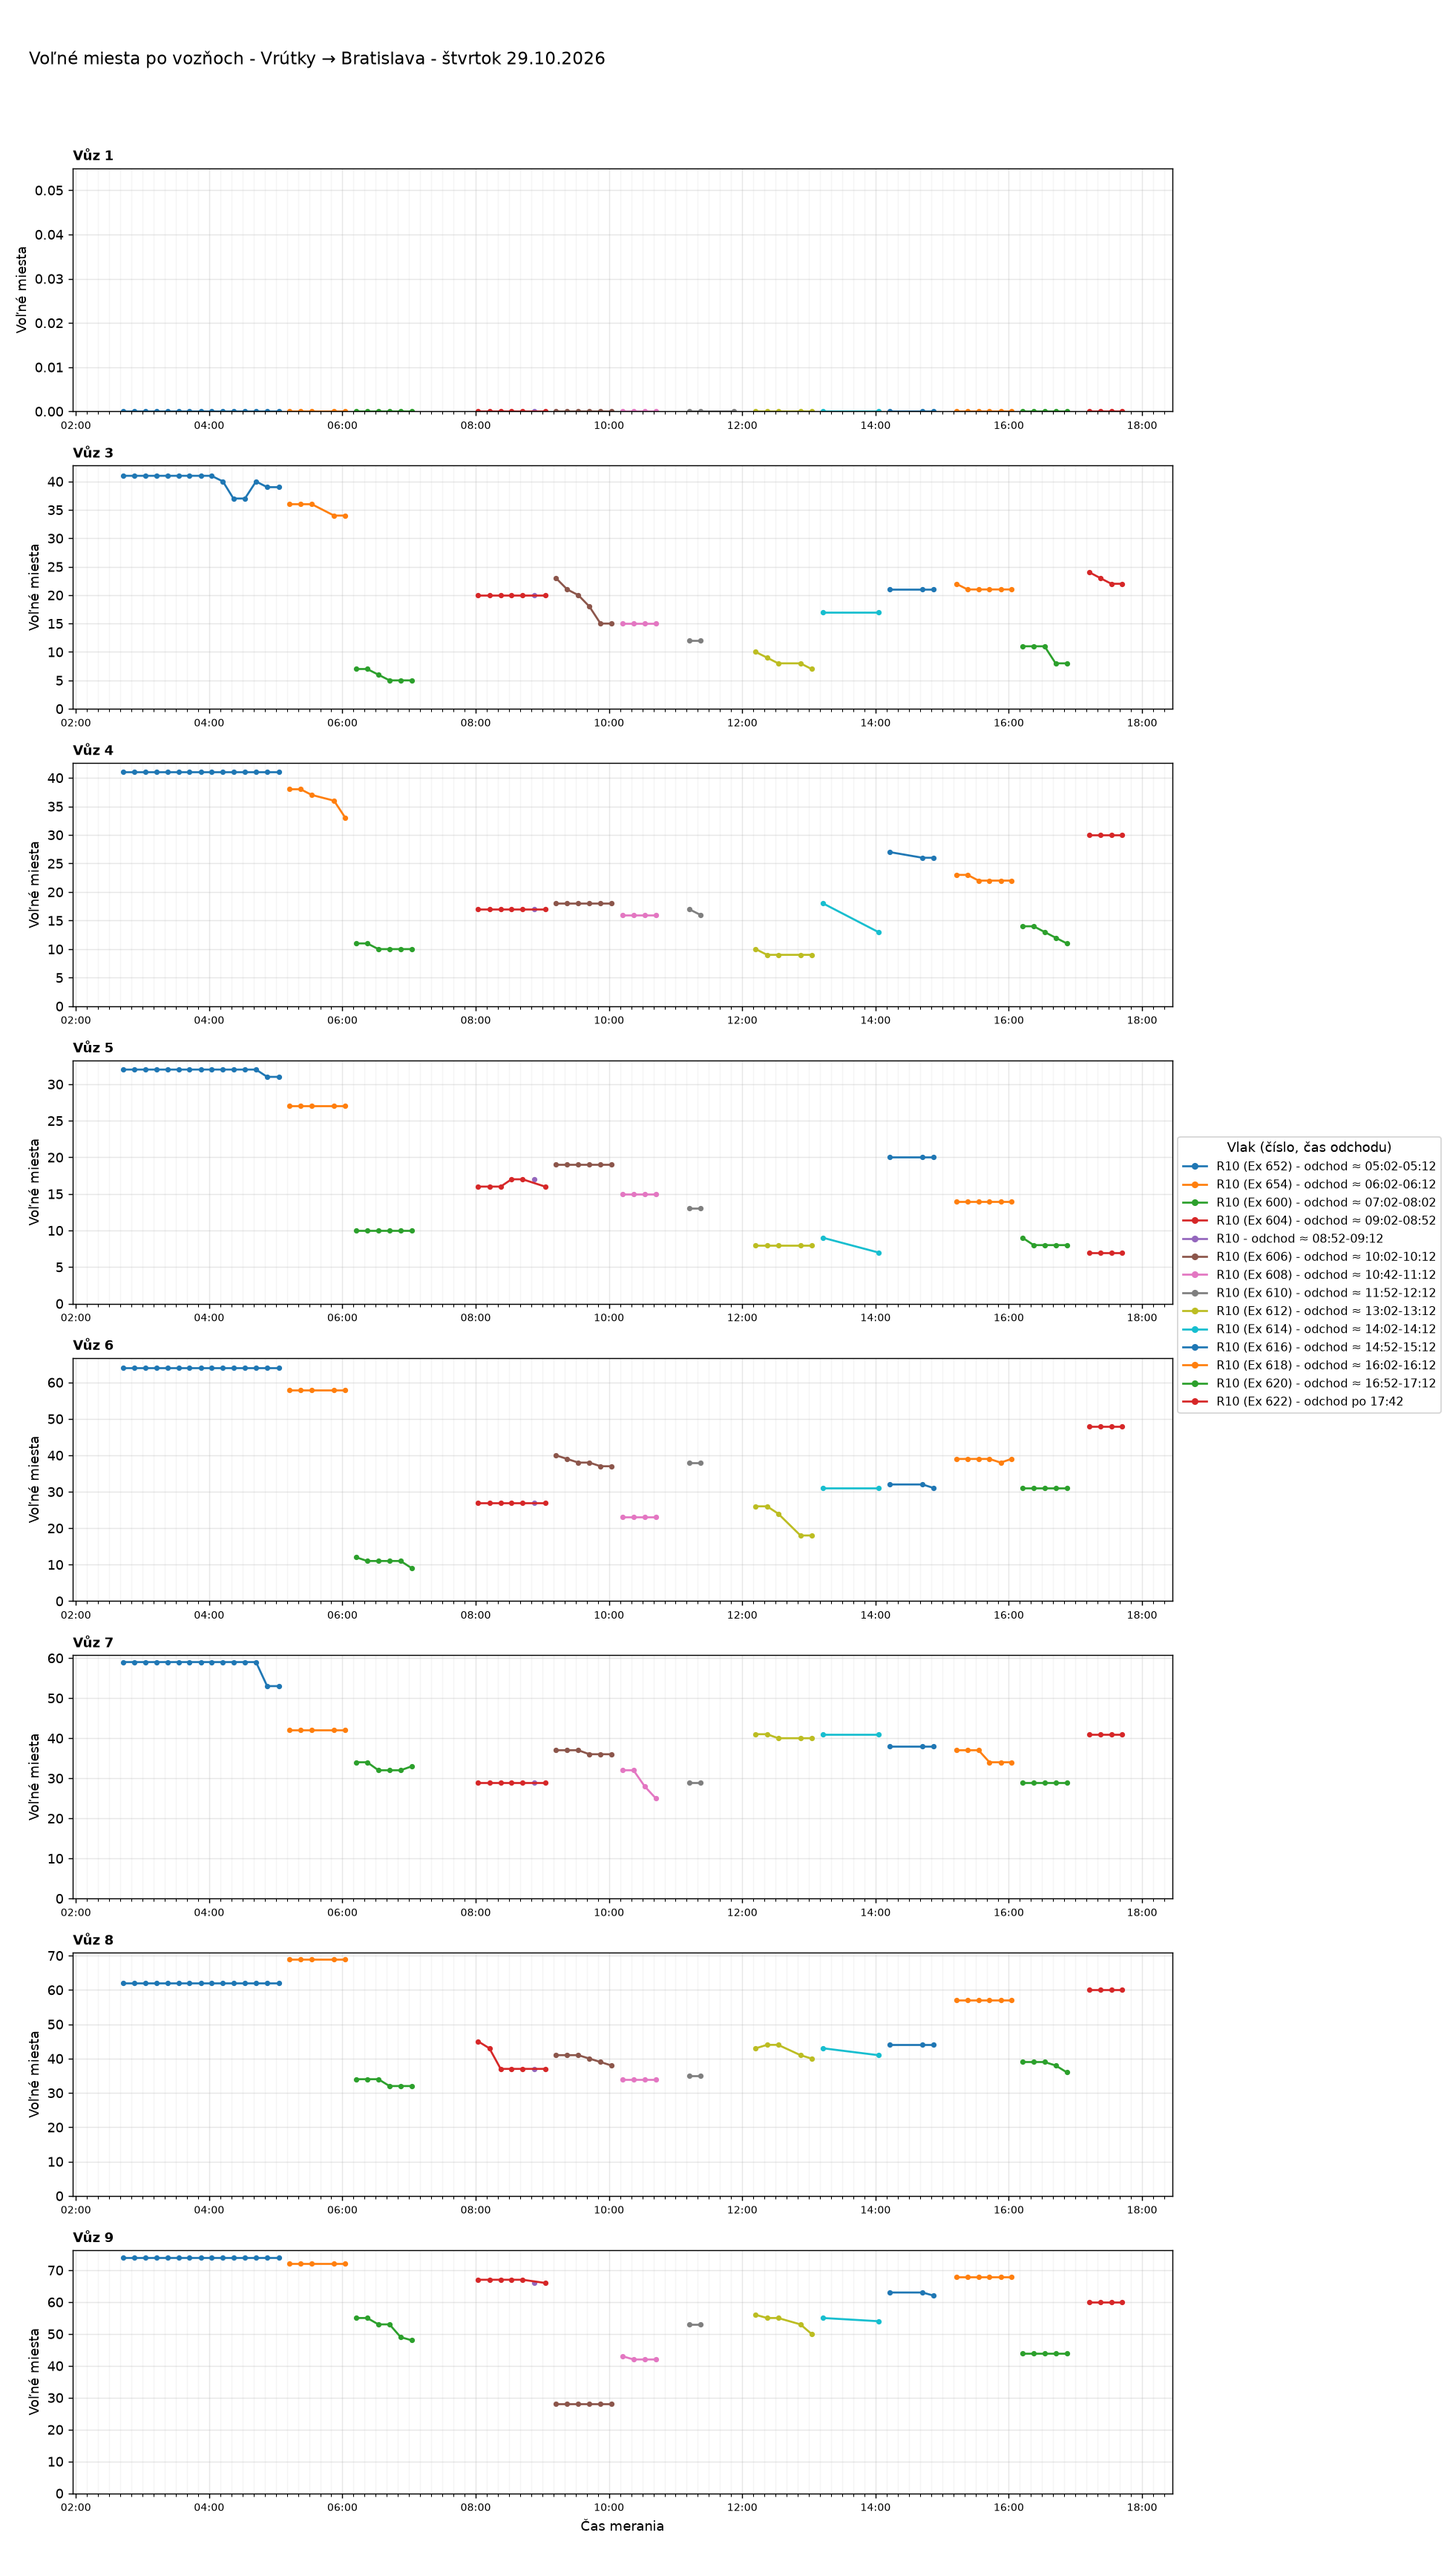
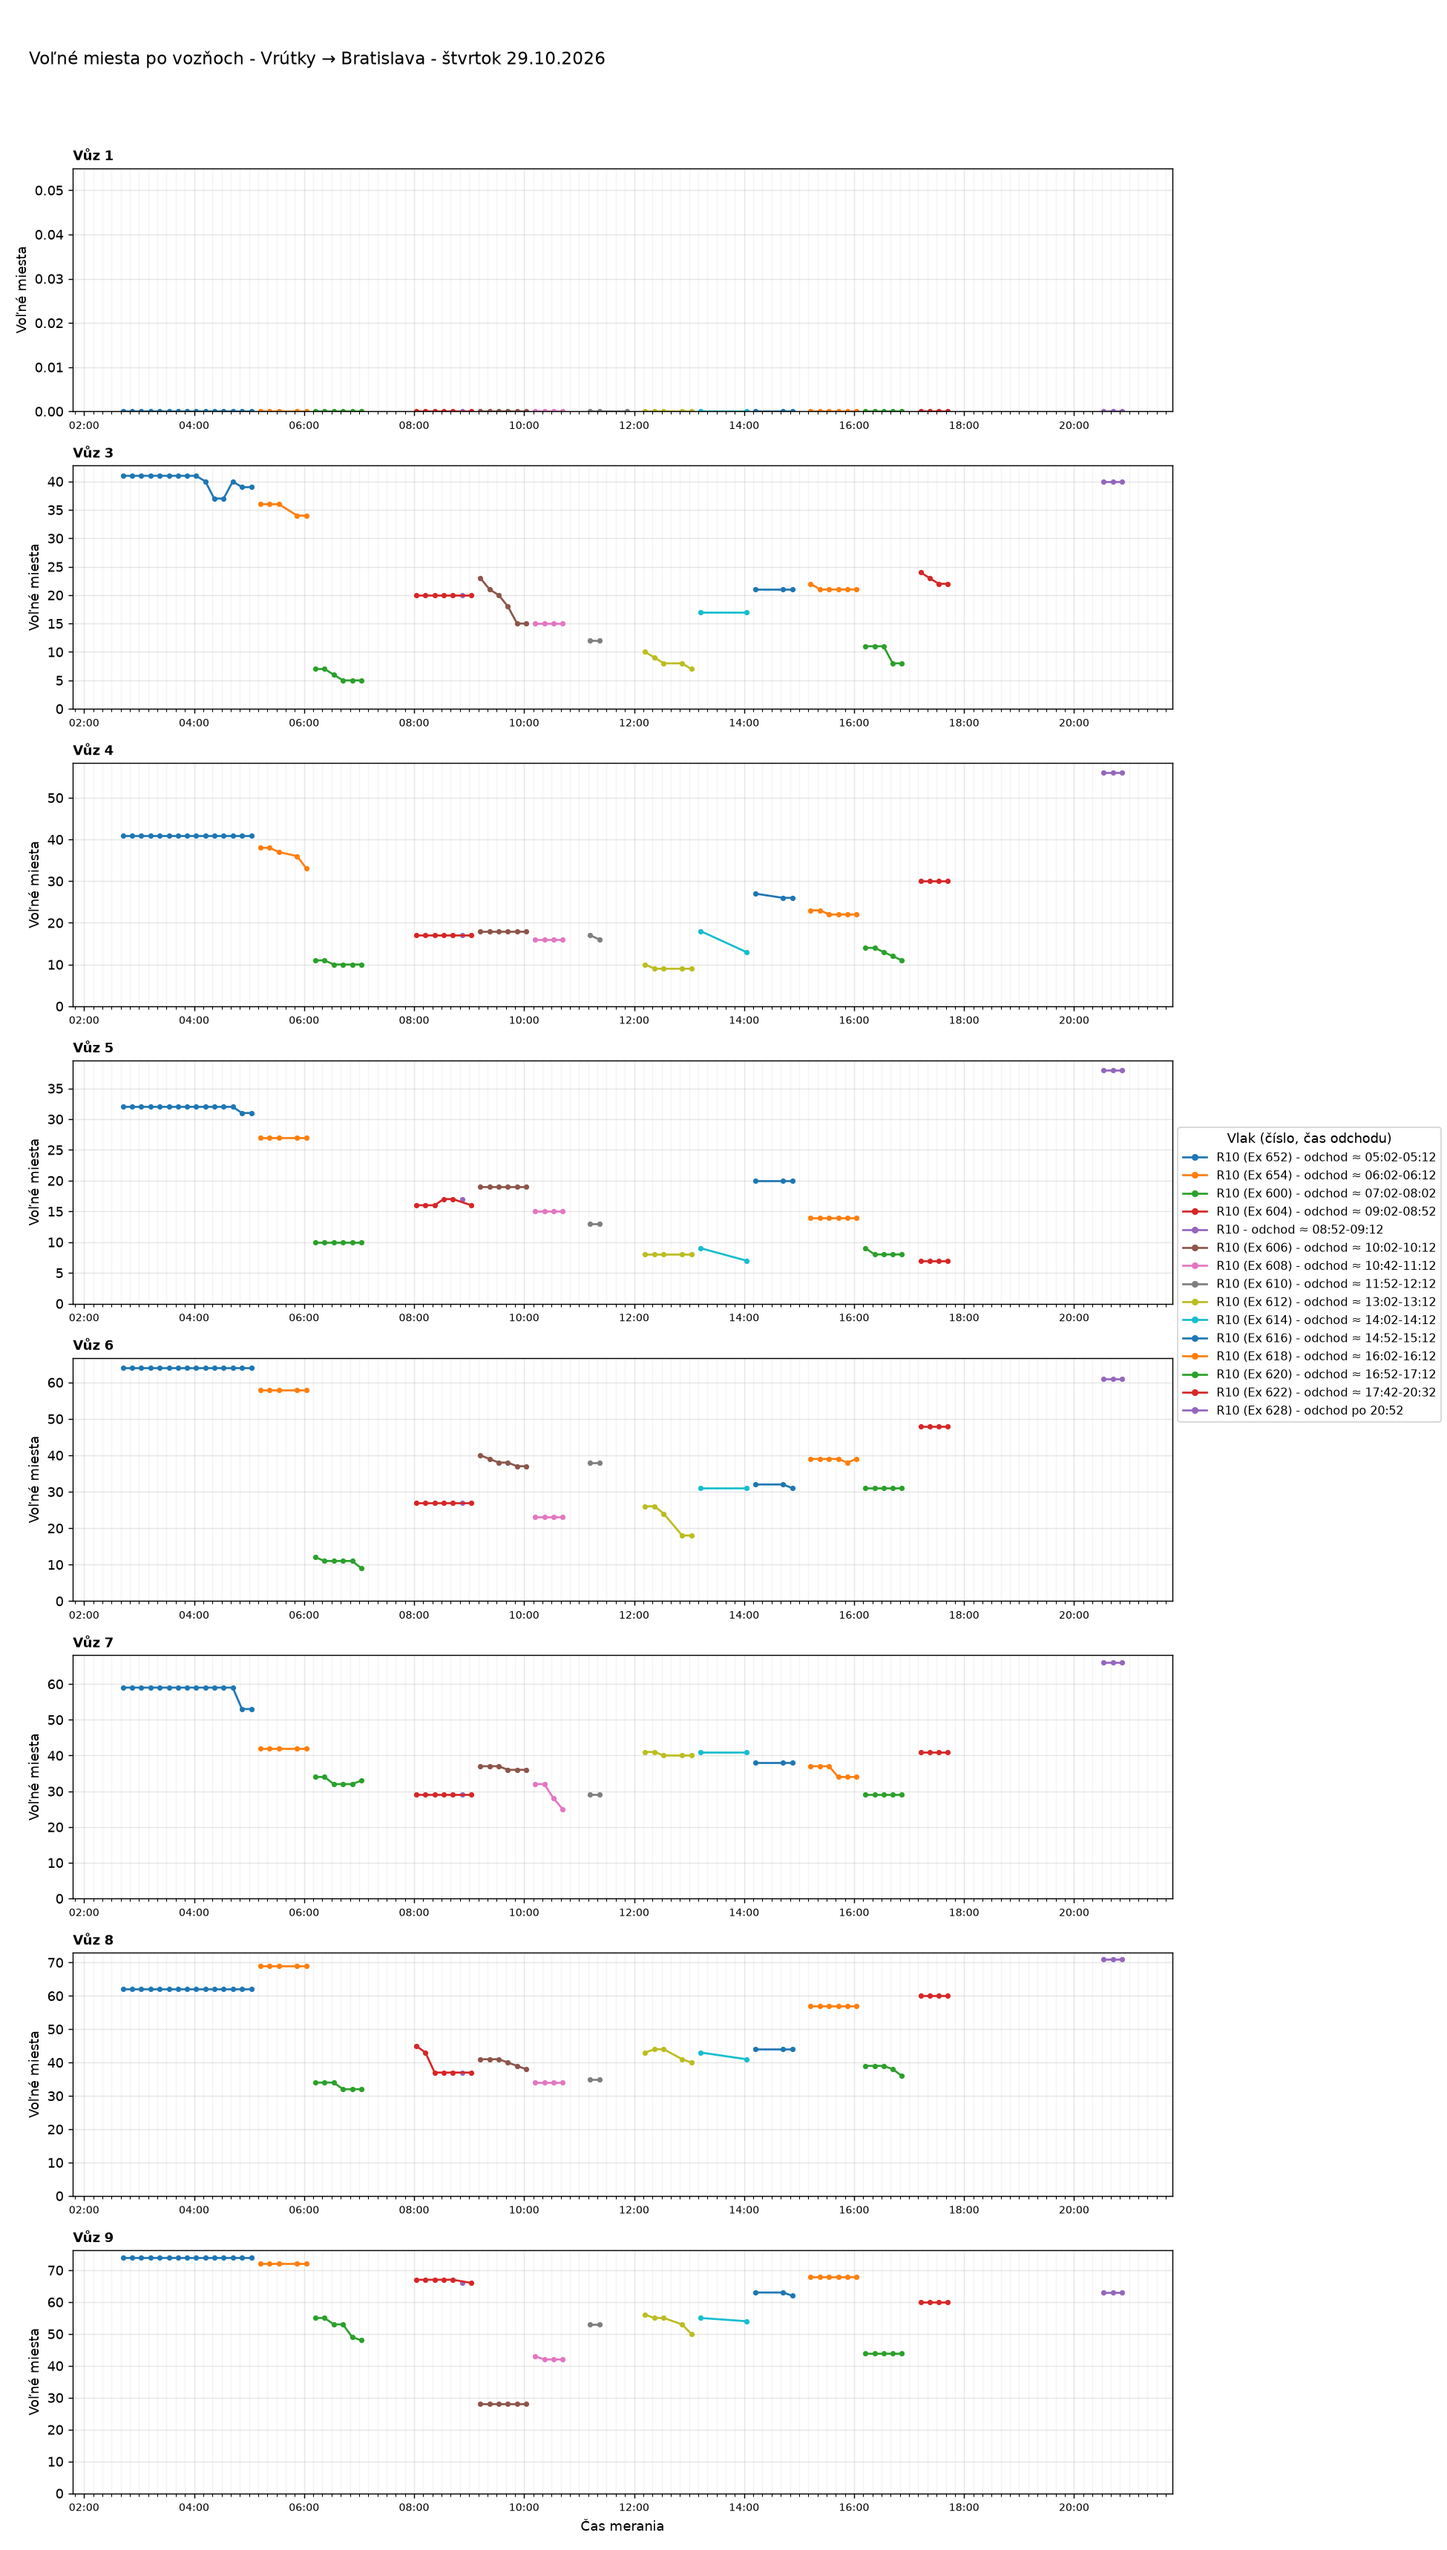
Aktualizácia grafov 2026-10-29 21:03

diff --git a/index.html b/index.html
@@ -37,7 +37,7 @@ details.trasa>summary{cursor:pointer;font-weight:600;font-size:1.1rem;padding:8p
 <body>
 <main>
 <h1>Voľné miesta vo vlakoch</h1>
-<p class="muted">Posledné meranie: 29.10.2026 19:41 ·
+<p class="muted">Posledné meranie: 29.10.2026 20:52 ·
 <a href="data/obsadenost_data.csv">stiahnuť dáta (CSV)</a></p>
 <nav class="nav"><a href="#suhrn">Súhrn</a><a href="#statistiky">Štatistiky</a><a href="#historia">História grafov</a></nav>
 
@@ -47,7 +47,7 @@ details.trasa>summary{cursor:pointer;font-weight:600;font-size:1.1rem;padding:8p
 <thead><tr><th>Deň</th><th>Trasa</th><th>Meraní</th><th>Vlakov</th><th>Čas meraní</th></tr></thead>
 <tbody>
 <tr><td><a href="#dBA-VR-2026-10-29">štvrtok 29.10.2026</a></td><td>Bratislava → Vrútky</td><td>83</td><td>14</td><td>00:01-19:41</td></tr>
-<tr><td><a href="#dVR-BA-2026-10-29">štvrtok 29.10.2026</a></td><td>Vrútky → Bratislava</td><td>71</td><td>14</td><td>02:42-17:42</td></tr>
+<tr><td><a href="#dVR-BA-2026-10-29">štvrtok 29.10.2026</a></td><td>Vrútky → Bratislava</td><td>74</td><td>15</td><td>02:42-20:52</td></tr>
 <tr><td><a href="#dBA-KE-2026-10-29">štvrtok 29.10.2026</a></td><td>Bratislava → Košice</td><td>75</td><td>13</td><td>00:03-17:52</td></tr>
 <tr><td><a href="#dKE-BA-2026-10-29">štvrtok 29.10.2026</a></td><td>Košice → Bratislava</td><td>63</td><td>14</td><td>00:04-17:43</td></tr>
 <tr><td><a href="#dBA-VR-2026-10-28">streda 28.10.2026</a></td><td>Bratislava → Vrútky</td><td>148</td><td>16</td><td>00:03-23:51</td></tr>
